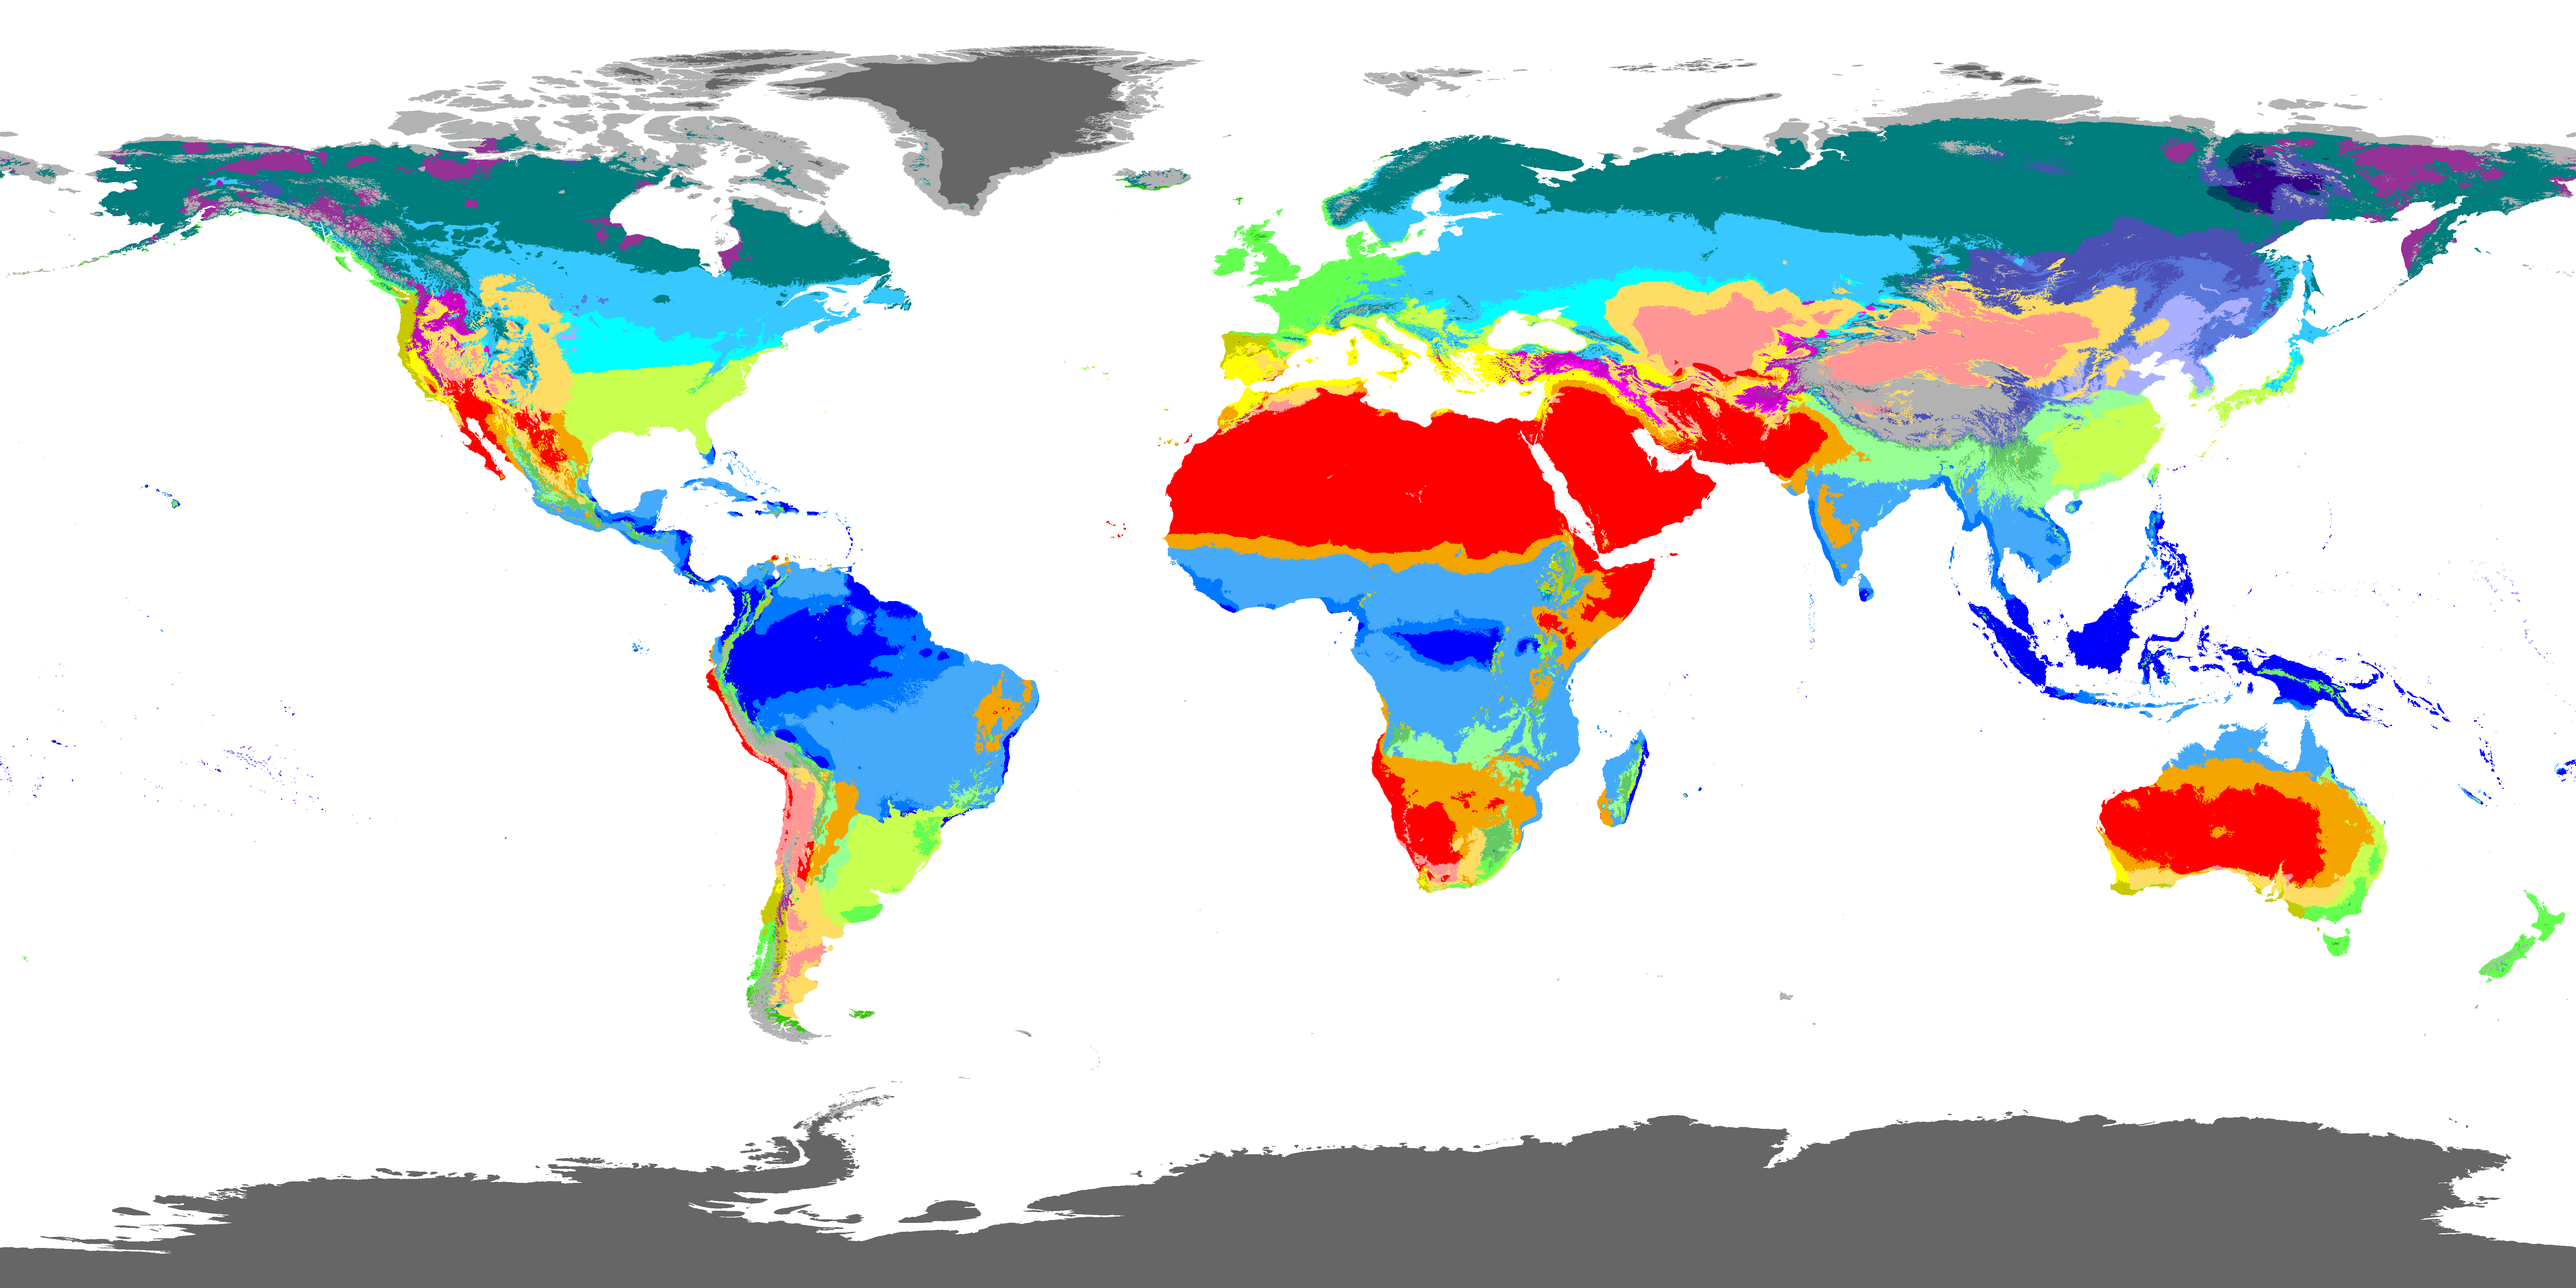
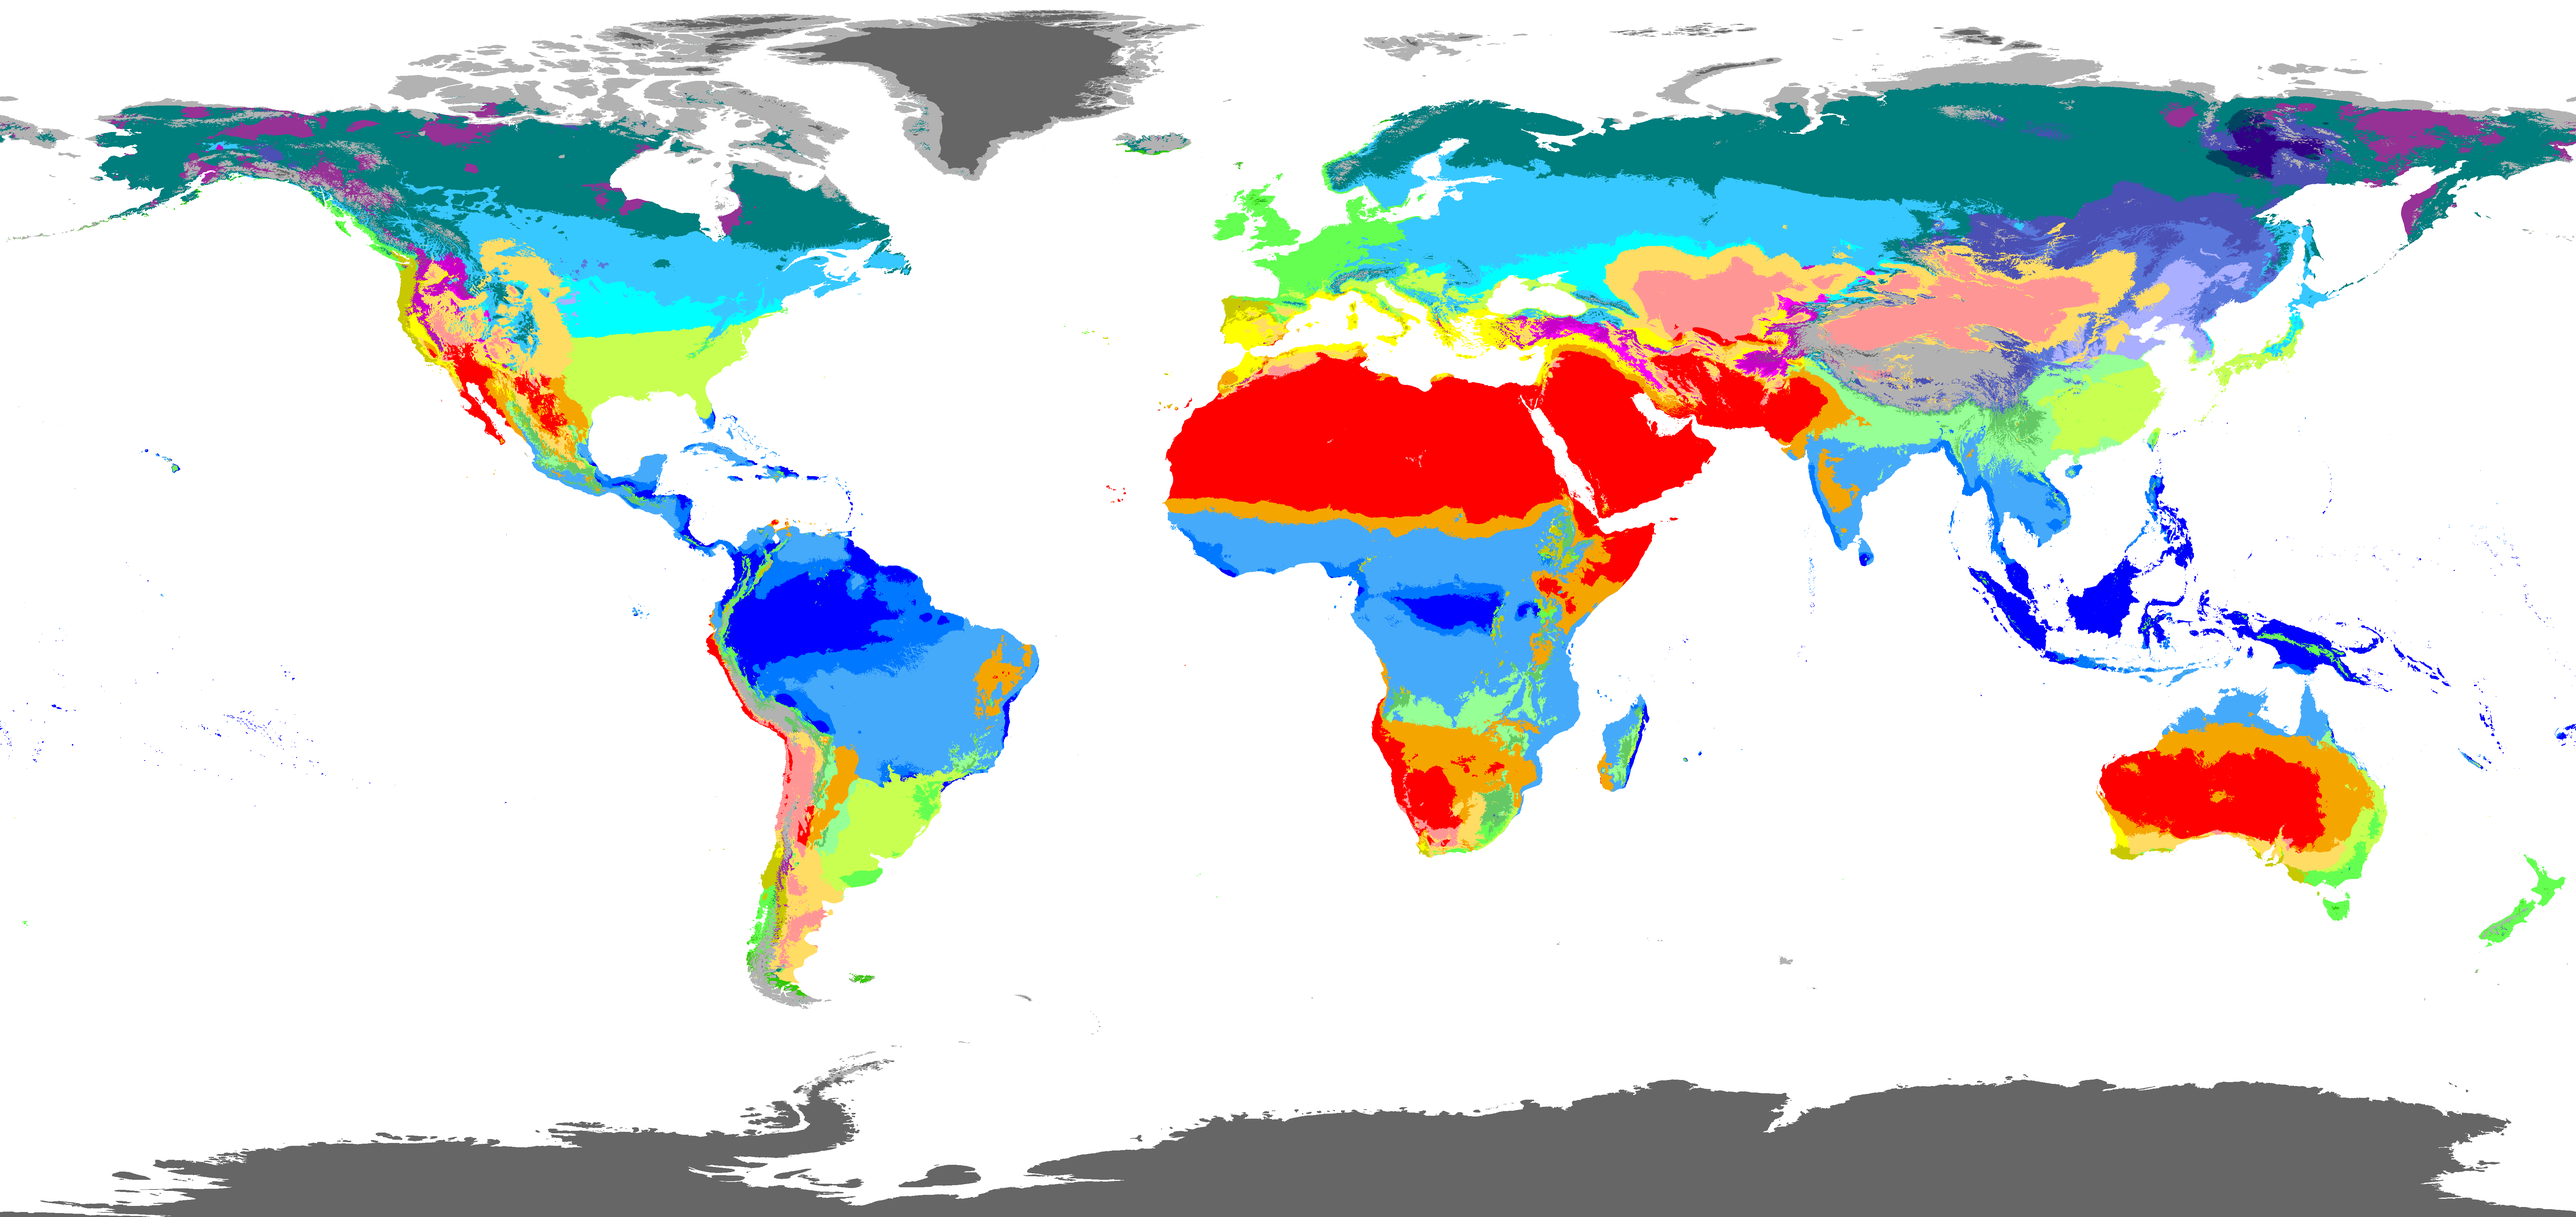
update

diff --git a/index.html b/index.html
@@ -2598,10 +2598,10 @@ window.addEventListener('DOMContentLoaded', () => {
           brg+=`<div class="tp-row"><span>${currentLang==='jp'?'始点→終点':'start → end'}</span><b>${bearingHTML(s,e)}</b></div>`;
         }
       }
-      body=`<div class="tp-row"><span>${t('points')}</span><b>${measurePoints.length}</b></div><div class="tp-row"><span>${t('total')}</span><b>${distHTML(tot)}</b></div>${brg}<div class="tp-hint">${t('measureHint')}</div>`;
+      body=`<div class="tp-row"><span>${t('points')}</span><b>${measurePoints.length}</b></div><div class="tp-row"><span>${t('total')}</span><b>${distHTML(tot)}</b></div>${brg}`;
     } else if(toolMode==='area'){
       const pe=hasTurf()?ringPerimeter(measurePoints):0, ar=(hasTurf()&&measurePoints.length>=3)?ringArea(measurePoints):0;
-      body=`<div class="tp-row"><span>${t('points')}</span><b>${measurePoints.length}</b></div><div class="tp-row"><span>${t('perimeter')}</span><b>${distHTML(pe)}</b></div><div class="tp-row"><span>${t('area')}</span><b>${ar?areaHTML(ar):'—'}</b></div><div class="tp-hint">${t('areaHint')}</div>${measurePoints.length>=3?`<button class="ai-action-btn" id="ai-summarize-btn">📰 ${t('aiSumBtn')}</button>`:''}`;
+      body=`<div class="tp-row"><span>${t('points')}</span><b>${measurePoints.length}</b></div><div class="tp-row"><span>${t('perimeter')}</span><b>${distHTML(pe)}</b></div><div class="tp-row"><span>${t('area')}</span><b>${ar?areaHTML(ar):'—'}</b></div>${measurePoints.length>=3?`<button class="ai-action-btn" id="ai-summarize-btn">📰 ${t('aiSumBtn')}</button>`:''}`;
     } else if(toolMode==='radius'){
       let opts=`<option value="">${t('presetNone')}</option>`;
       RADIUS_PRESETS.forEach(grp=>{ opts+=`<optgroup label="${grp.g[currentLang]}">`+grp.items.map(it=>`<option value="${it[1]}">${it[0]} — ${it[1]} km</option>`).join('')+`</optgroup>`; });
@@ -4470,7 +4470,7 @@ window.addEventListener('DOMContentLoaded', () => {
     const layerDates={temp:tempMonthISO(3),precip:PRECIP_DATE,thermal:GIBS_DATE,sst:GIBS_DATE,snow:GIBS_DATE,aod:GIBS_DATE};
     [
       ['__grp','lyrGrpWeather'],
-      ['radar','lyrRadar'],['clouds','lyrClouds'],['wind','lyrWind'],['temp','lyrTemp'],['precip','lyrPrecip'],['sst','lyrSST'],['snow','lyrSnow'],['aod','lyrAOD'],['thermal','lyrThermal'],
+      ['climate','lyrClimate'],['radar','lyrRadar'],['clouds','lyrClouds'],['wind','lyrWind'],['temp','lyrTemp'],['precip','lyrPrecip'],['sst','lyrSST'],['snow','lyrSnow'],['aod','lyrAOD'],['thermal','lyrThermal'],
       ['__grp','lyrGrpTerrain'],
       ['relief','lyrRelief'],['hillshade','lyrHillshade'],['contours','lyrContours'],
       ['__grp','lyrGrpMaritime'],
@@ -4604,7 +4604,7 @@ window.addEventListener('DOMContentLoaded', () => {
     }
     /* NATO members fill (#39): brighter blue so it's clearly visible on the dark basemap
        (the old #0a3d91 navy at 50% was nearly invisible), with a crisp outline. */
-    function addNato(){ if(map.getLayer('nato-fill'))return; map.addLayer({id:'nato-fill',type:'fill',source:'countries',layout:{visibility:'none'},paint:{'fill-color':'#2f6bff','fill-opacity':['case',['boolean',['feature-state','nato'],false],opacities.nato,0]}},beforeId); map.addLayer({id:'nato-line',type:'line',source:'countries',layout:{visibility:'none'},paint:{'line-color':'#7fb0ff','line-width':['case',['boolean',['feature-state','nato'],false],1.6,0]}},beforeId); }
+    function addNato(){ if(!map.getLayer('nato-fill')) map.addLayer({id:'nato-fill',type:'fill',source:'countries',layout:{visibility:'none'},paint:{'fill-color':'#2f6bff','fill-opacity':['case',['boolean',['feature-state','nato'],false],opacities.nato,0]}},beforeId); if(!map.getLayer('nato-line')) map.addLayer({id:'nato-line',type:'line',source:'countries',layout:{visibility:'none'},paint:{'line-color':'#7fb0ff','line-width':['case',['boolean',['feature-state','nato'],false],1.6,0]}},beforeId); }
     function applyNato(){ if(!countryGeo) return; countryGeo.features.forEach(f=>{ if(f.id==null) return; const s=countryStats[String(f.id)]; map.setFeatureState({source:'countries',id:f.id},{nato:!!(s&&NATO.has(s.code))}); }); }
 
     let nightTimer=null;
@@ -4617,7 +4617,9 @@ window.addEventListener('DOMContentLoaded', () => {
        the one baked into the PNG so cursor pixel-sampling round-trips perfectly. */
     const KURL='koppen_hires.png';
     const KURL_FALLBACK='https://upload.wikimedia.org/wikipedia/commons/thumb/e/e8/Koppen-Geiger_Map_World_present.svg/1920px-Koppen-Geiger_Map_World_present.svg.png';
-    window.KCOORDS=[[-180,90],[180,90],[180,-90],[-180,-90]];
+    /* Image source corners must stay inside the Web-Mercator latitude limit (±85.0511°),
+       otherwise setCoordinates throws "y=Infinity". The PNG is cropped to this band. */
+    window.KCOORDS=[[-180,85.05],[180,85.05],[180,-85.05],[-180,-85.05]];
     const KCOORDS=window.KCOORDS;
     window.KCOL=[['Af',[0,0,255]],['Am',[0,120,255]],['Aw',[70,170,250]],['BWh',[255,0,0]],['BWk',[255,150,150]],['BSh',[245,165,0]],['BSk',[255,220,100]],['Csa',[255,255,0]],['Csb',[200,200,0]],['Csc',[150,150,0]],['Cwa',[150,255,150]],['Cwb',[100,200,100]],['Cwc',[50,150,50]],['Cfa',[200,255,80]],['Cfb',[100,255,80]],['Cfc',[50,200,0]],['Dsa',[255,0,255]],['Dsb',[200,0,200]],['Dsc',[150,50,150]],['Dsd',[150,100,150]],['Dwa',[170,175,255]],['Dwb',[90,120,220]],['Dwc',[75,80,180]],['Dwd',[50,0,135]],['Dfa',[0,255,255]],['Dfb',[55,200,255]],['Dfc',[0,125,125]],['Dfd',[0,70,95]],['ET',[178,178,178]],['EF',[102,102,102]]];
     window.KNAME={Af:{en:'Tropical rainforest',jp:'熱帯雨林'},Am:{en:'Tropical monsoon',jp:'熱帯モンスーン'},Aw:{en:'Savanna',jp:'サバナ'},BWh:{en:'Hot desert',jp:'砂漠(高温)'},BWk:{en:'Cold desert',jp:'砂漠(寒冷)'},BSh:{en:'Hot steppe',jp:'ステップ(高温)'},BSk:{en:'Cold steppe',jp:'ステップ(寒冷)'},Csa:{en:'Mediterranean, hot summer',jp:'地中海性(高温夏)'},Csb:{en:'Mediterranean, warm summer',jp:'地中海性(温暖夏)'},Csc:{en:'Mediterranean, cold summer',jp:'地中海性(冷涼夏)'},Cwa:{en:'Humid subtropical, dry winter',jp:'温暖冬季少雨'},Cwb:{en:'Subtropical highland',jp:'温帯高地'},Cwc:{en:'Subtropical highland, dry winter',jp:'温帯高地(冬季少雨)'},Cfa:{en:'Humid subtropical',jp:'温暖湿潤'},Cfb:{en:'Oceanic',jp:'西岸海洋性'},Cfc:{en:'Subpolar oceanic',jp:'亜寒帯海洋性'},Dsa:{en:'Continental, dry-hot summer',jp:'大陸性夏季少雨(高温)'},Dsb:{en:'Continental, dry-warm summer',jp:'大陸性夏季少雨(温暖)'},Dsc:{en:'Continental, dry summer (cold)',jp:'大陸性夏季少雨(冷涼)'},Dsd:{en:'Continental, dry summer (severe)',jp:'大陸性夏季少雨(厳寒)'},Dwa:{en:'Continental, dry winter (hot summer)',jp:'大陸性冬季少雨(高温夏)'},Dwb:{en:'Continental, dry winter (warm summer)',jp:'大陸性冬季少雨(温暖夏)'},Dwc:{en:'Subarctic, dry winter',jp:'亜寒帯冬季少雨'},Dwd:{en:'Subarctic, dry winter (severe)',jp:'亜寒帯冬季少雨(厳寒)'},Dfa:{en:'Humid continental, hot summer',jp:'亜寒帯湿潤(高温夏)'},Dfb:{en:'Humid continental, warm summer',jp:'亜寒帯湿潤(温暖夏)'},Dfc:{en:'Subarctic',jp:'亜寒帯'},Dfd:{en:'Subarctic, severe winter',jp:'亜寒帯(厳寒)'},ET:{en:'Tundra',jp:'ツンドラ'},EF:{en:'Ice cap',jp:'氷雪'}};
@@ -4665,10 +4667,10 @@ window.addEventListener('DOMContentLoaded', () => {
         return null;
       }
       if(!window._koppenCanvas) return null;
-      if(lat>90||lat<-90) return null;
+      if(lat>85.05||lat<-85.05) return null;
       const W=window._koppenCanvas.width, H=window._koppenCanvas.height;
       const x=Math.max(0,Math.min(W-1,Math.round((lng+180)/360*W)));
-      const y=Math.max(0,Math.min(H-1,Math.round((90-lat)/180*H)));
+      const y=Math.max(0,Math.min(H-1,Math.round((85.05-lat)/170.1*H)));
       try{ const p=window._koppenCanvas.getContext('2d').getImageData(x,y,1,1).data; return nearestKoppenCode(p[0],p[1],p[2],p[3]); }
       catch(e){ return null; }
     };
